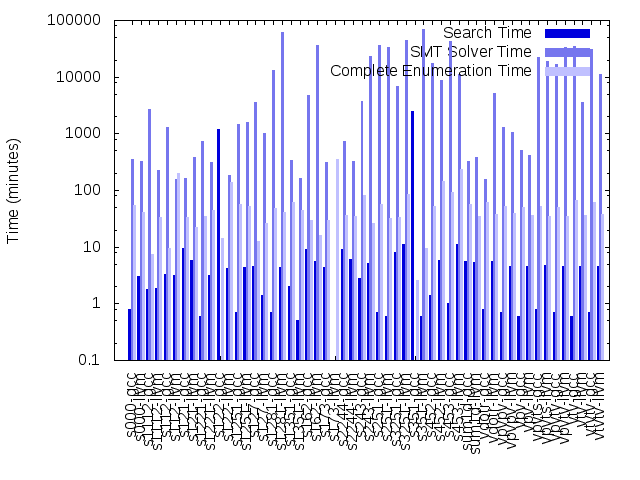
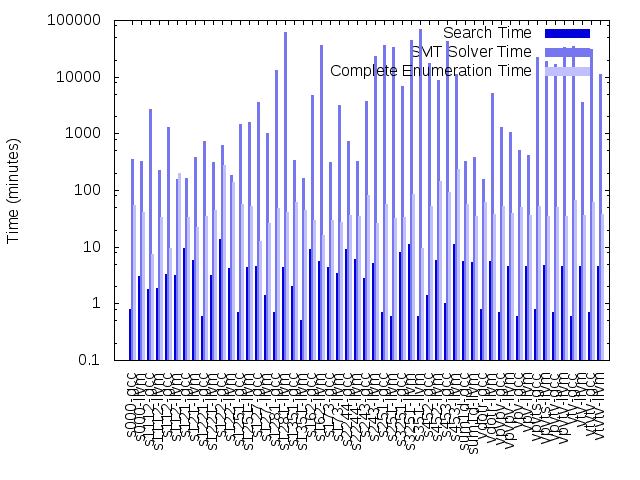
data plots

Changed region(s): [[0.2188, 0.0625, 0.9375, 0.75], [0.2188, 0.7812, 0.9062, 0.9688]]

diff --git a/pldi19/TSVC/graph.rb b/pldi19/TSVC/graph.rb
@@ -6,6 +6,14 @@ require 'pg'
 @connection = PG.connect( File.open("/afs/cs.stanford.edu/u/berkeley/stoke2/bin/postgres").read )
 @data = {}
 
+@blacklist = { :gcc => { "s351" => true }, :llvm => {} }
+
+@debug = false
+if ARGV.size > 0 and ARGV[0] == "--debug"
+  puts "DEBUG MODE"
+  @debug = true
+end
+
 
 def collect_data(compiler1, compiler2, benchmark)
   puts "Collecting data #{compiler1} #{compiler2} #{benchmark}"
@@ -84,16 +92,50 @@ def collect_data(compiler1, compiler2, benchmark)
 end
 
 def output_data(benchmarks)
-  File.open("data.out", 'w') do |file|
+  filename = "data.out"
+  if @debug
+    filename = "data.debug"
+  end
+
+  cpu_times = {}
+
+  File.open(filename, 'w') do |file|
     file.write("benchmark total_search_min first_search_min attempted_preds tested_preds smt_time\n")
     @data.each do |benchmark,m2|
       m2.each do |compiler1,m3|
         m3.each do |compiler2,m4| 
+          cpu_times["#{benchmark}-#{compiler2}"] = m4[:smt_solver_time_mins]
           file.write("#{benchmark}-#{compiler2} #{m4[:total_search_time_mins]} #{m4[:first_search_time_mins]} #{m4[:attempted_predicates]} #{m4[:tested_ok_predicates]} #{m4[:smt_solver_time_mins]}\n")
         end
       end
     end
   end
+
+  min = nil
+  min_bench = nil
+  max = nil
+  max_bench = nil
+  values = []
+  cpu_times.each do |k,v|
+    if min.nil? or v < min then
+      min = v
+      min_bench = k
+    end
+    if max.nil? or v > max then
+      max = v
+      max_bench = k
+    end
+    values.push(v)
+  end
+  values.sort!
+  if values.size % 2 == 0 then
+    puts "Median #{(values[values.size/2] + values[values.size/2-1])/120}"
+  else
+    puts "Median #{values[values.size/2]/60}"
+  end
+  puts "Min #{min_bench} #{min/60}"
+  puts "Max #{max_bench} #{max/60}"
+
 end
 
 def get_runtime(hashes)
@@ -102,7 +144,7 @@ def get_runtime(hashes)
   i = 0
   for hash in hashes do
     sql = "#{sql} OR hash='#{hash}'"
-#break if i > 3
+    break if i > 3 and @debug
     i = i + 1
   end
   sql = "#{sql}) AND smt_time+gen_time < 6912000000000" #this is a bug workaround -- remove later
@@ -120,13 +162,22 @@ def main
   File.open('benchmarks').each do |line|
     benchmarks.push(line.strip)
     i = i + 1
-#break if i > 3
+    break if i > 3 and @debug
   end
 
   benchmarks.each do |benchmark|
-    @data[benchmark] = { :baseline => { :gcc => { }, :llvm => { } } }
-    collect_data(:baseline, :gcc, benchmark)
-    collect_data(:baseline, :llvm, benchmark)
+    @data[benchmark] = {}
+    @data[benchmark][:baseline] = {}
+
+    if not @blacklist[:gcc][benchmark] then
+      @data[benchmark][:baseline][:gcc] = {}
+      collect_data(:baseline, :gcc, benchmark)
+    end
+
+    if not @blacklist[:llvm][benchmark] then
+      @data[benchmark][:baseline][:llvm] = {}
+      collect_data(:baseline, :llvm, benchmark)
+    end
   end
 
   output_data(benchmarks)

diff --git a/pldi19/TSVC/demo.rb b/pldi19/TSVC/demo.rb
@@ -112,6 +112,11 @@ def validate(compiler1, compiler2, benchmark, dofork=false)
     name = "#{prefix}.#{num}"
   end
 
+  live_outs = @default_live_outs
+  if benchmark == "sum1d" then
+    live_outs = "\"{ %rax %rbx %rsp %rbp %r12 %r13 %r14 %r15 }\""
+  end
+
   stoke_args = [
     "--strategy ddec",
     "--obligation_checker postgres",
@@ -125,7 +130,7 @@ def validate(compiler1, compiler2, benchmark, dofork=false)
     "--heap_out",
 #    "--stack_out",
     "--max_jumps 129000",
-    "--live_out #{@default_live_outs}",
+    "--live_out #{live_outs}",
     "--def_in #{@default_def_ins}",
     "--target_bound #{@options[:target_bound]}",
     "--rewrite_bound #{@options[:rewrite_bound]}",
